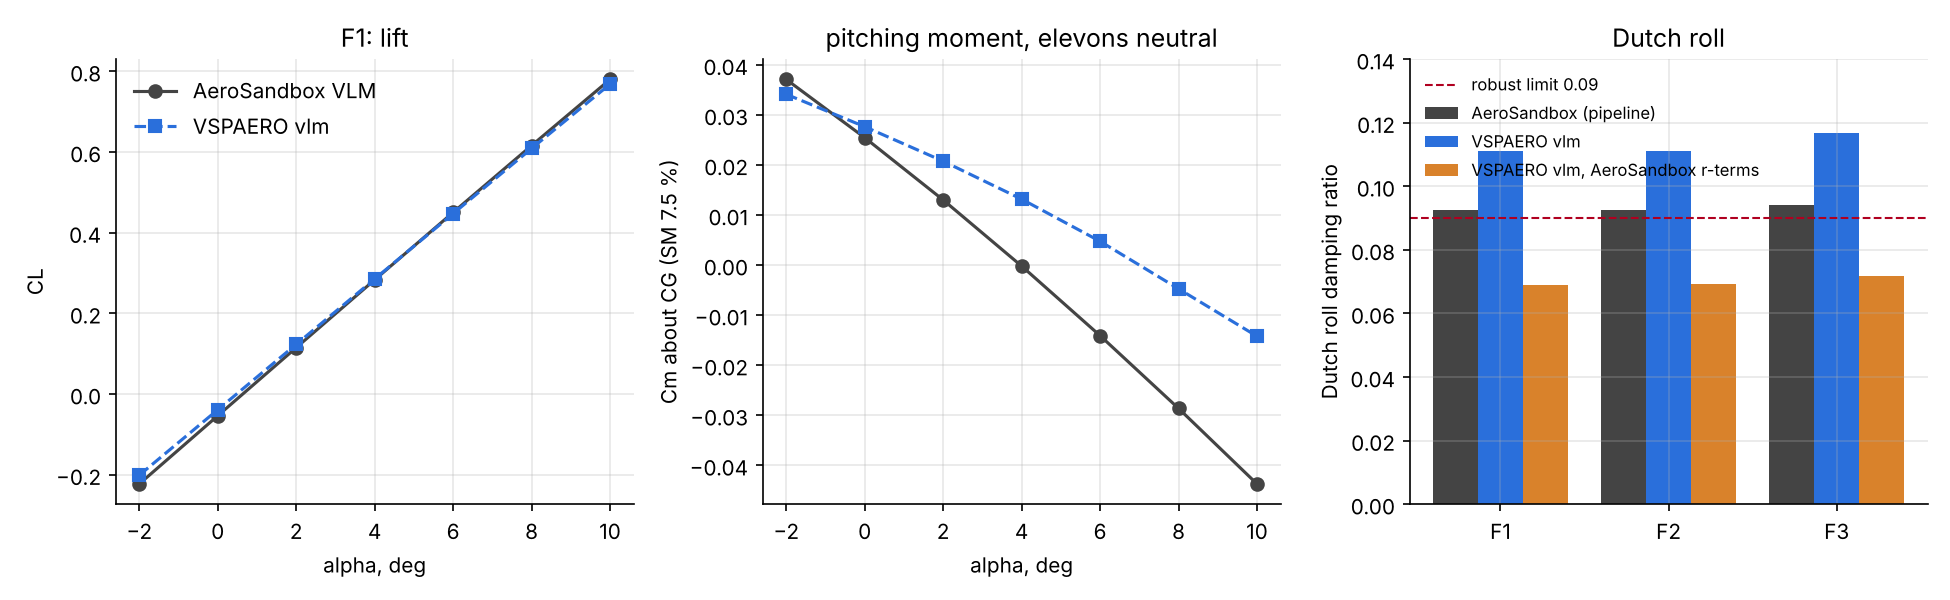
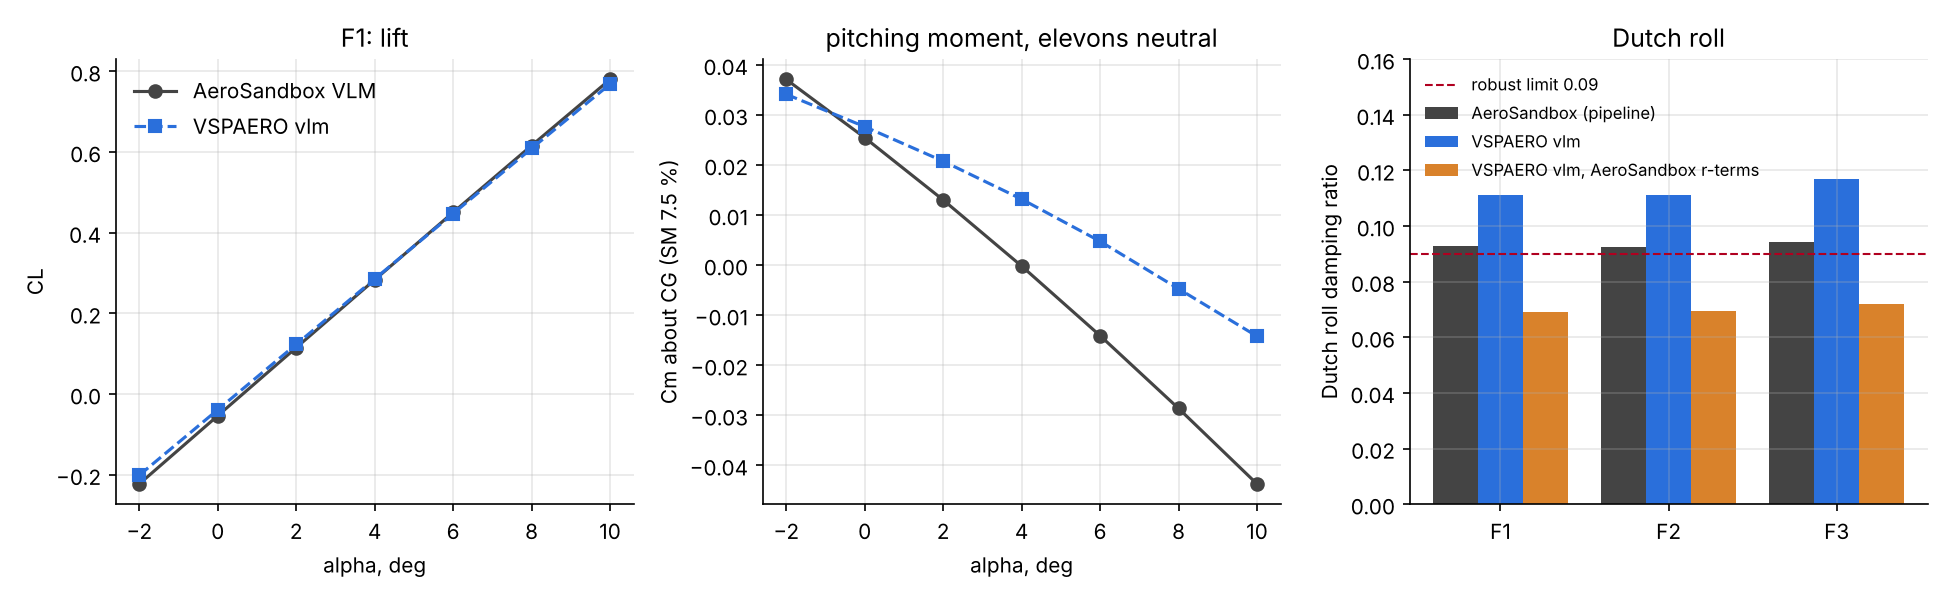
M1.7b: spanwise loading from a VSPAERO cruise run
Adds parse_lod / plot_span_loading and a 'spanload' CLI, the F1 cruise
.lod, docs section and chart; Dutch roll chart legend no longer overlaps.

Claude-Session: https://claude.ai/code/session_01998wzre5hwkuy1fQdJbP9Q

diff --git a/src/manta_mapper/vspaero.py b/src/manta_mapper/vspaero.py
@@ -42,6 +42,7 @@ import argparse
 import json
 import math
 import re
+import sys
 from dataclasses import asdict, dataclass, field
 from pathlib import Path
 
@@ -792,7 +793,7 @@ def plot_comparison(results: list[CaseResult], path: str | None = None):  # prag
     axes[2].axhline(DUTCH_ROLL_MIN, color="#b00020", lw=1, ls="--", label="robust limit 0.09")
     axes[2].set(xticks=np.arange(len(labels)) + w * (len(keys) - 1) / 2, xticklabels=labels,
                 ylabel="Dutch roll damping ratio", title="Dutch roll")
-    axes[2].set_ylim(0, 0.14)
+    axes[2].set_ylim(0, 0.16)
     axes[2].legend(frameon=False, fontsize=8, loc="upper left")
     for ax in axes:
         ax.grid(alpha=0.3)
@@ -805,6 +806,73 @@ def plot_comparison(results: list[CaseResult], path: str | None = None):  # prag
 
 
 # --------------------------------------------------------------------------
+# Spanwise loading (.lod)
+# --------------------------------------------------------------------------
+
+
+def parse_lod(path: str) -> dict:
+    """Read a VSPAERO .lod file: reference values and the strip table, keyed by column name."""
+    refs, rows, header = {}, [], None
+    for line in Path(path).read_text().splitlines():
+        parts = line.split()
+        if not parts or parts[0].startswith("#"):
+            continue
+        if parts[0] == "Iter":
+            header = parts
+        elif header is None and len(parts) >= 2:
+            try:
+                refs[parts[0].rstrip("_")] = float(parts[1])
+            except ValueError:
+                pass
+        elif header is not None and len(parts) >= len(header):
+            rows.append([float(x) for x in parts[: len(header)]])
+    table = {h: np.array([r[i] for r in rows]) for i, h in enumerate(header or [])}
+    return {"refs": refs, "strips": table}
+
+
+def plot_span_loading(lod_path: str, path: str, title: str = "") -> dict:  # pragma: no cover - visual
+    """Spanwise lift: the main wing's cl*c/(CL*cref) against the elliptic loading, and local cl."""
+    import matplotlib.pyplot as plt
+
+    d = parse_lod(lod_path)
+    st, refs = d["strips"], d["refs"]
+    wing = st["VortexSheet"] == 1
+    y, c, cl, da = (st[k][wing] for k in ("Yavg", "Chord", "Cl", "dArea"))
+    order = np.argsort(y)
+    y, c, cl, da = y[order], c[order], cl[order], da[order]
+    CL = float(np.sum(cl * da) / np.sum(da))
+    b2 = refs.get("Bref", 2 * np.max(np.abs(y))) / 2
+    load = cl * c / (CL * refs["Cref"])
+    eta = y / b2
+    area_ratio = np.trapezoid(load, eta) if hasattr(np, "trapezoid") else np.trapz(load, eta)
+    ell = (4 / np.pi) * np.sqrt(np.clip(1 - np.linspace(-1, 1, 201) ** 2, 0, None)) * area_ratio / 2
+    fig, axes = plt.subplots(1, 2, figsize=(12, 4))
+    axes[0].plot(eta, load, "-", color="#2a6fdb", lw=2, label="VSPAERO VLM")
+    axes[0].plot(np.linspace(-1, 1, 201), ell, "--", color="#444444", label="elliptic, same lift")
+    axes[0].set_xlabel("spanwise station  2y/b")
+    axes[0].set_ylabel("load  cl c / (CL c_ref)")
+    axes[0].set_title("spanwise lift distribution")
+    axes[0].legend(loc="lower center", frameon=False)
+    axes[1].plot(eta, cl, "-", color="#2a6fdb", lw=2)
+    axes[1].axhline(CL, color="#444444", ls="--", lw=1)
+    axes[1].text(0.0, CL + 0.01, f"aircraft CL {CL:.2f}", ha="center", va="bottom", color="#444444")
+    axes[1].set_xlabel("spanwise station  2y/b")
+    axes[1].set_ylabel("local section cl")
+    axes[1].set_title("local lift coefficient (peak sets where stall starts)")
+    for ax in axes:
+        ax.grid(alpha=0.3)
+        ax.spines[["top", "right"]].set_visible(False)
+        ax.set_xlim(-1.02, 1.02)
+    if title:
+        fig.suptitle(title)
+    fig.tight_layout()
+    fig.savefig(path, dpi=150)
+    plt.close(fig)
+    i = int(np.argmax(cl))
+    return {"CL": CL, "cl_max": float(cl[i]), "eta_at_cl_max": float(abs(eta[i]))}
+
+
+# --------------------------------------------------------------------------
 # CLI
 # --------------------------------------------------------------------------
 
@@ -814,6 +882,14 @@ def main(argv: list[str] | None = None) -> None:  # pragma: no cover - CLI
     sub = p.add_subparsers(dest="cmd", required=True)
     pp = sub.add_parser("prepare", help="write OpenVSP scripts for the optimizer finalists")
     pa = sub.add_parser("analyse", help="compare VSPAERO output with the AeroSandbox VLM")
+    if argv is None and len(sys.argv) > 1 and sys.argv[1] == "spanload" or argv and argv[0] == "spanload":
+        ps = argparse.ArgumentParser(prog="python -m manta_mapper.vspaero spanload")
+        ps.add_argument("lod")
+        ps.add_argument("--out", required=True)
+        ps.add_argument("--title", default="")
+        a = ps.parse_args((argv if argv is not None else sys.argv[1:])[1:])
+        print(plot_span_loading(a.lod, a.out, a.title))
+        return
     for q in (pp, pa):
         q.add_argument("mission", help="mission TOML")
         q.add_argument("--optimizer", default="docs/optimizer_result.json")

diff --git a/tests/test_vspaero.py b/tests/test_vspaero.py
@@ -139,3 +139,17 @@ def test_vspaero_vlm_results_parse_and_pass_sanity(tmp_path):
     assert V.solution_problems(sw, st) == ""
     bad = V.parse_polar(runs / "F1_panel_sweep.polar")
     assert V.solution_problems(bad, None) != ""  # the broken thick mesh is caught
+
+
+def test_parse_lod_reads_cruise_strips():
+    from manta_mapper.vspaero import parse_lod
+
+    d = parse_lod("vsp_runs/v2/F1_vlm_cruise.lod")
+    st = d["strips"]
+    assert abs(d["refs"]["AoA"] - 5.2) < 1e-3
+    wing = st["VortexSheet"] == 1
+    assert wing.sum() == 138 and (st["VortexSheet"] > 1).sum() == 18
+    # symmetric loading, peak section cl outboard of the centre body
+    cl = st["Cl"][wing]
+    assert abs(cl[:69] - cl[::-1][:69]).max() < 0.01
+    assert 0.40 < cl.max() < 0.50

diff --git a/docs/vspaero.md b/docs/vspaero.md
@@ -15,6 +15,20 @@ report in [vspaero_v2_report.txt](vspaero_v2_report.txt)).
 | Spiral, roll | Spiral stays slow (VSPAERO time constants 124 to 300 s, well past the 12 s limit); roll time constant 0.04 s |
 | Recommendation | Keep the 1.84 m F1 as the design. **Move the CG band 8 mm forward** (F1: about 252 mm instead of 260 mm) so the VSPAERO static margin is back at 7.5 %, and let CFD (M2.1) settle the neutral point. Panel runs were skipped (mesh still breaks at the fin joint) |
 
+### Where the lift goes (F1 at cruise)
+
+![Spanwise loading](img/v2/spanwise_loading.png)
+
+A single VSPAERO run at the cruise point (alpha 5.2°, 14 m/s, CL 0.37) gives the
+spanwise loading. It sits close to elliptic, slightly fuller over the centre
+body and slightly thinner out at the tips, which is what the 3.3° washout is
+for. The local section cl peaks at 0.45 at about 30 % semispan, just outboard of
+the pod, and falls to 0.2 to 0.3 near the tips. So the stall starts inboard,
+where the elevons are not, which agrees with the "inboard-first" stall from
+M1.4. The dip at the very tip strips is the junction with the drooped fins, a
+known VLM artifact. Plot it again with
+`python -m manta_mapper.vspaero spanload vsp_runs/v2/F1_vlm_cruise.lod --out docs/img/v2/spanwise_loading.png`.
+
 The rest of this page is the original M1.7 check of the earlier (pre-fix) finalists.
 
 ## The short answer
